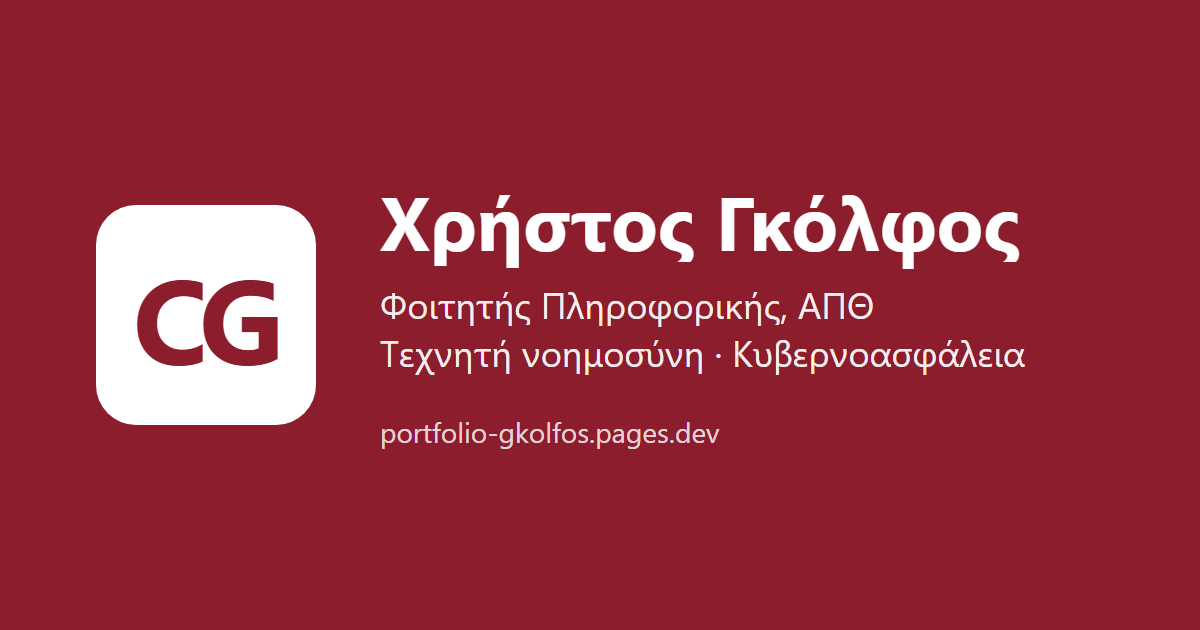
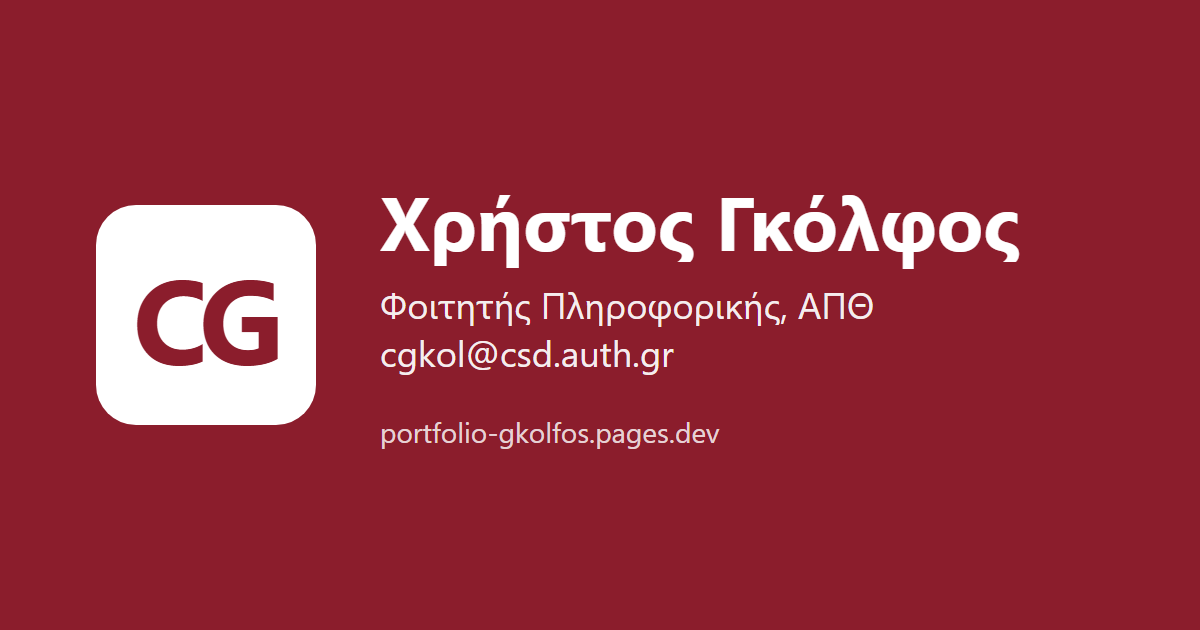
Show email instead of interests on Open Graph card

Changed region(s): [[0.3083, 0.5429, 0.8633, 0.6032]]

diff --git a/index.html b/index.html
@@ -6,11 +6,11 @@
   <title>Χρήστος Γκόλφος | Portfolio</title>
   <link rel="icon" href="favicon.svg" type="image/svg+xml">
   <!-- Περιγραφή για Google και κάρτα προεπισκόπησης (LinkedIn, Viber κ.λπ.), μόνο στα ελληνικά -->
-  <meta name="description" content="Χρήστος Γκόλφος, φοιτητής Πληροφορικής στο ΑΠΘ με ενδιαφέρον για την τεχνητή νοημοσύνη και την κυβερνοασφάλεια. Δεξιότητες, projects και στοιχεία επικοινωνίας.">
+  <meta name="description" content="Χρήστος Γκόλφος, φοιτητής Πληροφορικής στο ΑΠΘ. Δεξιότητες, projects και στοιχεία επικοινωνίας.">
   <meta property="og:type" content="website">
   <meta property="og:url" content="https://portfolio-gkolfos.pages.dev/">
   <meta property="og:title" content="Χρήστος Γκόλφος | Portfolio">
-  <meta property="og:description" content="Φοιτητής Πληροφορικής στο ΑΠΘ με ενδιαφέρον για την τεχνητή νοημοσύνη και την κυβερνοασφάλεια. Δεξιότητες, projects και στοιχεία επικοινωνίας.">
+  <meta property="og:description" content="Φοιτητής Πληροφορικής στο ΑΠΘ. Δεξιότητες, projects και στοιχεία επικοινωνίας.">
   <meta property="og:image" content="https://portfolio-gkolfos.pages.dev/og-image.png">
   <meta property="og:image:width" content="1200">
   <meta property="og:image:height" content="630">
